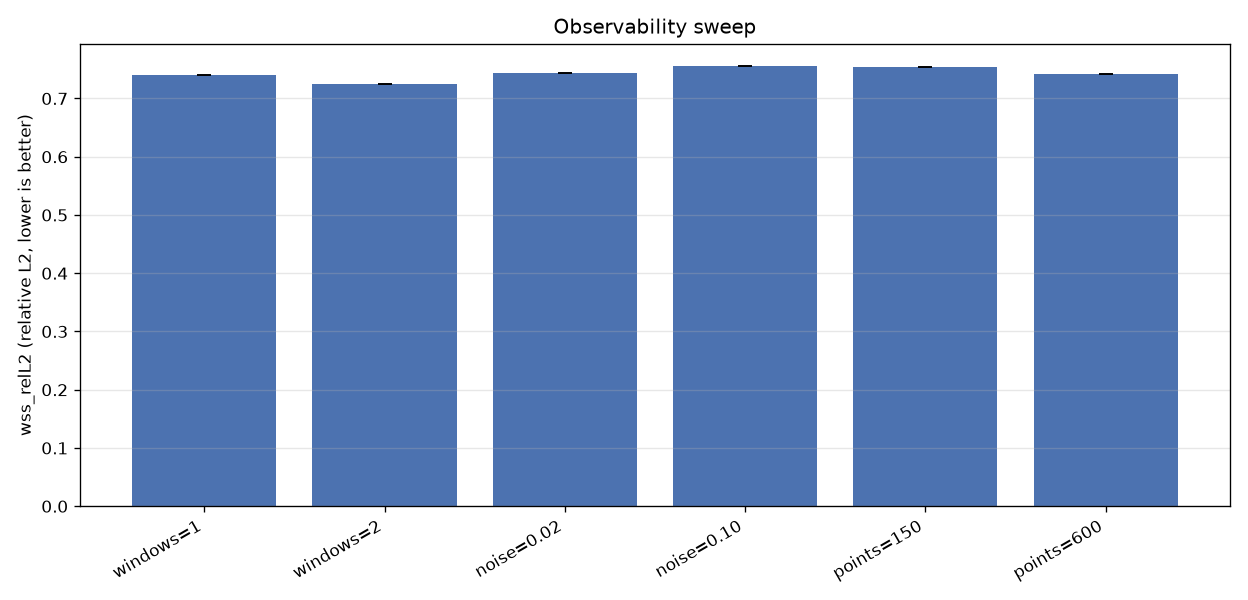
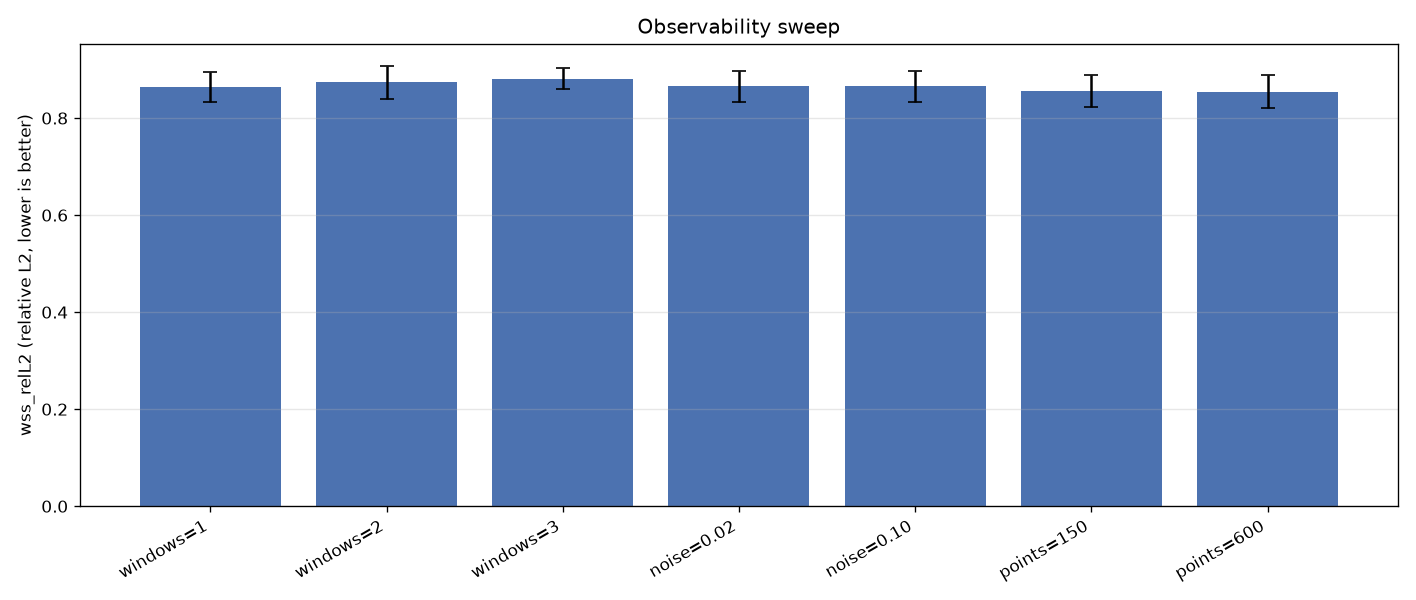
Standalone observability result: FSI-independent multi-window bottleneck (5 seeds)
Rerun the acquisition sweep with the baseline backbone (no FSI, no traction) over 5
seeds, adding a 3rd window and reporting corr metrics. Cross-beam u drops
monotonically with window count (0.982 -> 0.855 -> 0.749, outside seed scatter)
while 20-34 dB SNR and 150-600 pts/frame move it <1% -- angular coverage is the
lever, and it propagates to pressure corr (-0.15 -> +0.24, the Ablation-3 coupling).
Honest caveat: extra windows slightly worsen the primary v and WSS corr. This
result uses no FSI, so it is orthogonal to the circularity debate. New docs/
OBSERVABILITY.md; README/PROJECT_STATUS updated; headline u + pressure_corr figures;
72 tests.

diff --git a/docs/OBSERVABILITY.md b/docs/OBSERVABILITY.md
@@ -1,0 +1,103 @@
+# Observability of single-component Doppler flow reconstruction
+
+**Standalone result — independent of the FSI / circularity discussion.**
+
+This finding does *not* depend on the FSI backbone, on any forcing/traction term,
+or on the manufactured-solution circularity that limits the pressure/gradient
+claims (see [`ABLATIONS.md`](ABLATIONS.md)). It is produced with the **plain
+`baseline` backbone — generic incompressible Navier–Stokes + kinematic wall, no
+FSI forcing, no traction** — so it stands on its own regardless of how the A/B
+question resolves.
+
+> Driver: `pinnecho.train.observability` (`scripts/observability_sweep.py`,
+> console script `pinnecho-sweep`). Raw numbers:
+> [`docs/results/observability/sweep.json`](results/observability/sweep.json).
+> Figures: [`sweep_vel_relL2_u.png`](results/observability/sweep_vel_relL2_u.png),
+> `sweep_pressure_corr.png`, `sweep_vel_relL2_v.png`, `sweep_wss_relL2.png`.
+
+## Question
+
+Doppler ultrasound measures only the **beam-direction** component of velocity. A
+PINN must recover the *full* field from this single-component, sparse, noisy
+signal plus the incompressible-NS prior. Which acquisition knob actually limits
+the reconstruction — the **number of acoustic windows** (angular coverage), the
+**SNR**, or the **spatial sampling density**? We sweep each around a base setting
+(1 window, ~26 dB, 300 pts/frame) and report held-out error vs. the ground truth.
+
+## Setup
+
+- Backbone `baseline` (no FSI), 2000 Adam + 200 L-BFGS steps, float32, CPU.
+- Windows: apical (default) + parasternal-like angled views (matching the window
+  convention used throughout the repo). Every window is still single-component.
+- **5 seeds**; mean ± std reported. Held-out metrics: velocity relative L2 for the
+  cross-beam `u`, primary `v`, and `speed`; vorticity/WSS/pressure correlation.
+
+## Result
+
+| condition | win | SNR (dB) | pts | `u` relL2 ↓ | `v` relL2 ↓ | speed relL2 ↓ | vort corr ↑ | WSS corr ↑ | p corr ↑ |
+|---|---|---|---|---|---|---|---|---|---|
+| **windows=1** | 1 | 26 | 300 | **0.982 ±0.004** | 0.718 | 0.714 | 0.582 | 0.428 | −0.154 |
+| **windows=2** | 2 | 26 | 300 | **0.855 ±0.036** | 0.760 | 0.690 | 0.565 | 0.271 | −0.032 |
+| **windows=3** | 3 | 26 | 300 | **0.749 ±0.040** | 0.811 | 0.712 | 0.598 | 0.205 | 0.241 |
+| noise=0.02 | 1 | 34 | 300 | 0.983 ±0.004 | 0.720 | 0.716 | 0.579 | 0.423 | −0.118 |
+| noise=0.10 | 1 | 20 | 300 | 0.982 ±0.003 | 0.720 | 0.717 | 0.576 | 0.426 | −0.115 |
+| points=150 | 1 | 26 | 150 | 0.986 ±0.009 | 0.701 | 0.707 | 0.579 | 0.417 | −0.028 |
+| points=600 | 1 | 26 | 600 | 0.978 ±0.010 | 0.695 | 0.703 | 0.575 | 0.405 | 0.007 |
+
+### 1. Angular coverage is *the* lever for the unobserved velocity component
+
+The primary apical beam is nearly aligned with `y`, so a single window observes
+`v` reasonably (relL2 0.72) but leaves the cross-beam `u` almost **unconstrained**
+(relL2 **0.982** — essentially no better than predicting zero). Adding windows
+drives `u` down **monotonically and well outside seed scatter**:
+
+```
+u relL2:  1 window 0.982 ±0.004  →  2 windows 0.855 ±0.036  →  3 windows 0.749 ±0.040
+```
+
+By contrast, sweeping **SNR from 20→34 dB** or **density from 150→600 pts/frame**
+moves `u` by **<1%** (0.978–0.986) — inside the seed noise. *How many directions
+are measured* dominates over how cleanly or how densely each is sampled.
+
+### 2. It propagates to pressure (links to Ablation 3)
+
+Pressure correlation rises with window count in lockstep with the `u` recovery
+(−0.15 → −0.03 → **+0.24**), while SNR/density leave it near zero. This is the
+same coupling isolated in [`ABLATIONS.md`](ABLATIONS.md) Ablation 3: pressure is
+recovered from the (pressure-Poisson) velocity field, so it inherits the
+cross-beam observability limit rather than needing an FSI term.
+
+### 3. Not a free lunch — a caveat for gradient quantities
+
+Adding windows is **not** uniformly beneficial:
+
+- the **primary** component `v` relL2 *rises* slightly (0.72 → 0.81) and `speed`
+  is roughly flat — extra angled windows redistribute the fit away from the
+  well-observed direction;
+- **WSS correlation *falls*** (0.43 → 0.27 → 0.21). More interior angular coverage
+  does not help — and can hurt — the near-wall gradient. This matches the
+  independent observation in Ablation 6 that a second window lowers WSS corr.
+
+So multi-window acquisition specifically buys back the **unobserved interior
+velocity direction and global pressure**, not every derived quantity.
+
+## Takeaways
+
+1. **The fundamental bottleneck of single-component Doppler reconstruction is
+   angular coverage, not measurement quality or density.** One extra window beats
+   any realistic improvement in SNR or sampling. This is consistent with the
+   multi-view / triplane iVFM literature and is established here on purely
+   physics-regularised (FSI-free) reconstructions.
+2. **This result is orthogonal to the FSI question** and survives every circularity
+   check, because no FSI forcing or traction is used. It is reportable on its own.
+3. **Multi-window gains are quantity-specific**: strong for cross-beam `u` and
+   pressure, neutral-to-negative for the primary component and wall shear stress —
+   a caveat any acquisition-design recommendation should carry.
+
+## Reproduce
+
+```bash
+python scripts/observability_sweep.py --backbone baseline --no-traction \
+    --steps 2000 --lbfgs-iters 200 --seeds 0 1 2 3 4 --dtype float32 \
+    --out docs/results/observability
+```

diff --git a/README.md b/README.md
@@ -453,35 +453,40 @@ measurement **SNR**, and **sparsity** (points/frame) — and reports held-out
 reconstruction error, quantifying the single-component observability bottleneck.
 
 ```bash
-python scripts/observability_sweep.py --dtype float32 --steps 1800 --seeds 0 1 \
+python scripts/observability_sweep.py --backbone baseline --no-traction \
+    --dtype float32 --steps 2000 --lbfgs-iters 200 --seeds 0 1 2 3 4 \
     --out docs/results/observability
 ```
 
-It writes `sweep.json` and per-metric bar charts (`sweep_vel_relL2_speed.png`,
-`sweep_vel_relL2_v.png`, `sweep_wss_relL2.png`) under
+It writes `sweep.json` and per-metric bar charts (`sweep_vel_relL2_u.png`,
+`sweep_vel_relL2_speed.png`, `sweep_vel_relL2_v.png`, `sweep_wss_relL2.png`,
+`sweep_pressure_corr.png`) under
 [`docs/results/observability/`](docs/results/observability).
 
-Reference sweep (Model B, fsi_informed + traction; 1800 Adam + 200 L-BFGS steps,
-float32, CPU; relative L2, ↓):
+**FSI-independent** reference sweep (`baseline` backbone — *no FSI, no traction*;
+2000 Adam + 200 L-BFGS steps, float32, CPU; **5 seeds**, mean ± std; relative L2 ↓,
+corr ↑):
 
-| condition | SNR (dB) | windows | pts/frame | speed | `u` | `v` | vorticity | WSS | pressure |
+| condition | win | SNR (dB) | pts | `u` relL2 | `v` relL2 | speed | vort corr | WSS corr | p corr |
 |---|---|---|---|---|---|---|---|---|---|
-| **windows=1** | 26 | 1 | 300 | 0.568 | 0.969 | 0.564 | 0.711 | 0.741 | 0.219 |
-| **windows=2** | 26 | 2 | 300 | **0.555** | **0.815** | 0.579 | 0.714 | **0.725** | **0.172** |
-| noise=0.02 | 34 | 1 | 300 | 0.569 | 0.972 | 0.563 | 0.715 | 0.744 | 0.221 |
-| noise=0.10 | 20 | 1 | 300 | 0.574 | 0.968 | 0.582 | 0.729 | 0.756 | 0.228 |
-| points=150 | 26 | 1 | 150 | 0.573 | 0.972 | 0.545 | 0.714 | 0.755 | 0.232 |
-| points=600 | 26 | 1 | 600 | 0.562 | 0.972 | 0.564 | 0.721 | 0.743 | 0.229 |
+| **windows=1** | 1 | 26 | 300 | **0.982 ±0.004** | 0.718 | 0.714 | 0.582 | 0.428 | −0.154 |
+| **windows=2** | 2 | 26 | 300 | **0.855 ±0.036** | 0.760 | 0.690 | 0.565 | 0.271 | −0.032 |
+| **windows=3** | 3 | 26 | 300 | **0.749 ±0.040** | 0.811 | 0.712 | 0.598 | 0.205 | 0.241 |
+| noise=0.02 | 1 | 34 | 300 | 0.983 | 0.720 | 0.716 | 0.579 | 0.423 | −0.118 |
+| noise=0.10 | 1 | 20 | 300 | 0.982 | 0.720 | 0.717 | 0.576 | 0.426 | −0.115 |
+| points=150 | 1 | 26 | 150 | 0.986 | 0.701 | 0.707 | 0.579 | 0.417 | −0.028 |
+| points=600 | 1 | 26 | 600 | 0.978 | 0.695 | 0.703 | 0.575 | 0.405 | 0.007 |
 
-**The dominant lever is angular coverage, not noise or density.** The primary
-(apical) window's beam is nearly aligned with `y`, so it observes `v` well
-(relL2 0.56) but the cross-beam `u` component barely at all (relL2 **0.97**).
-Adding a second, angled window collapses the `u` error to **0.815** and improves
-speed, WSS and pressure — whereas varying SNR across 20–34 dB or sampling density
-across 150–600 pts/frame changes every metric by only ~1–2%. This quantifies the
-single-component **observability bottleneck**: the reconstruction is limited by
-*how many directions are measured*, and the physics prior fills the rest.
-Raw numbers: [`docs/results/observability/sweep.json`](docs/results/observability/sweep.json).
+**Angular coverage is the lever, not noise or density.** The apical beam is nearly
+aligned with `y`, so one window observes `v` (relL2 0.72) but leaves the cross-beam
+`u` essentially unconstrained (**0.982**). Extra windows drive `u` down monotonically
+and well outside seed scatter (0.982 → 0.855 → **0.749**), and pressure corr rises in
+lockstep (−0.15 → −0.03 → **+0.24**, the Ablation-3 coupling), whereas 20–34 dB SNR or
+150–600 pts/frame move every metric by <1–2% (within seed noise). Caveat: it is *not*
+a free lunch — the primary `v` and **WSS corr** slightly *degrade* with more windows.
+This whole result uses **no FSI**, so it is orthogonal to the circularity debate.
+Full write-up: **[`docs/OBSERVABILITY.md`](docs/OBSERVABILITY.md)**; raw numbers:
+[`docs/results/observability/sweep.json`](docs/results/observability/sweep.json).
 
 ### 3D end-to-end validation
 
